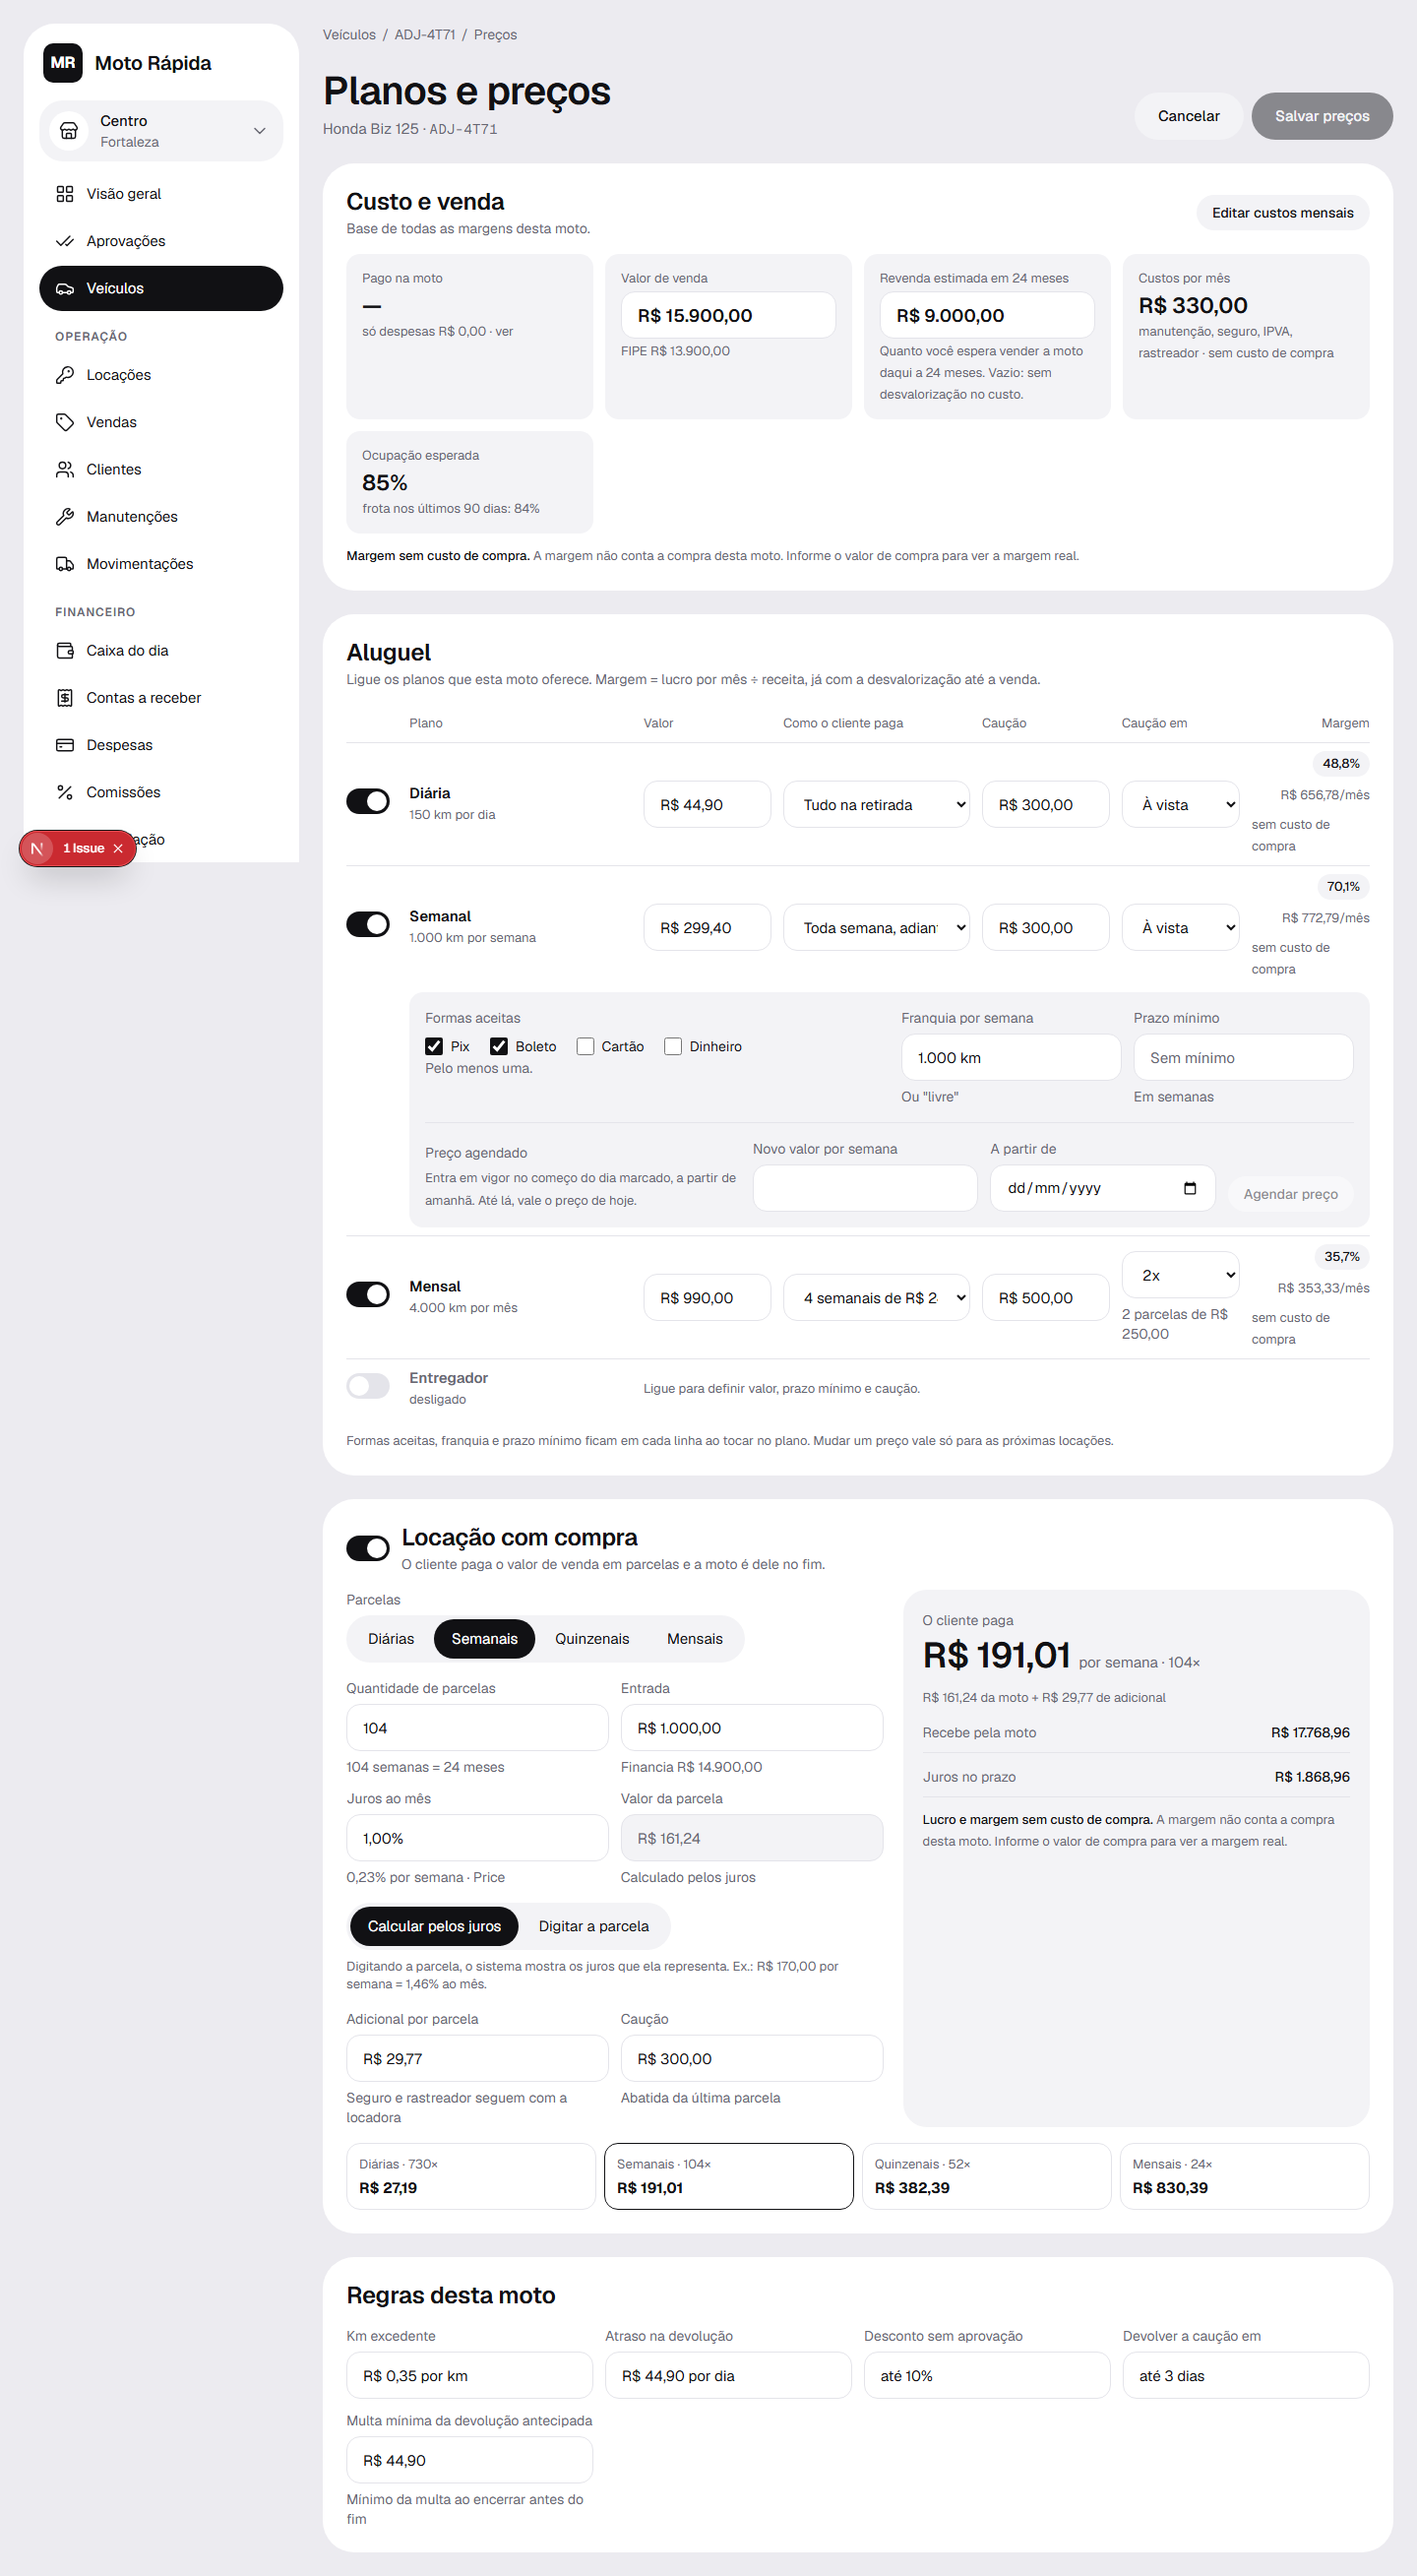
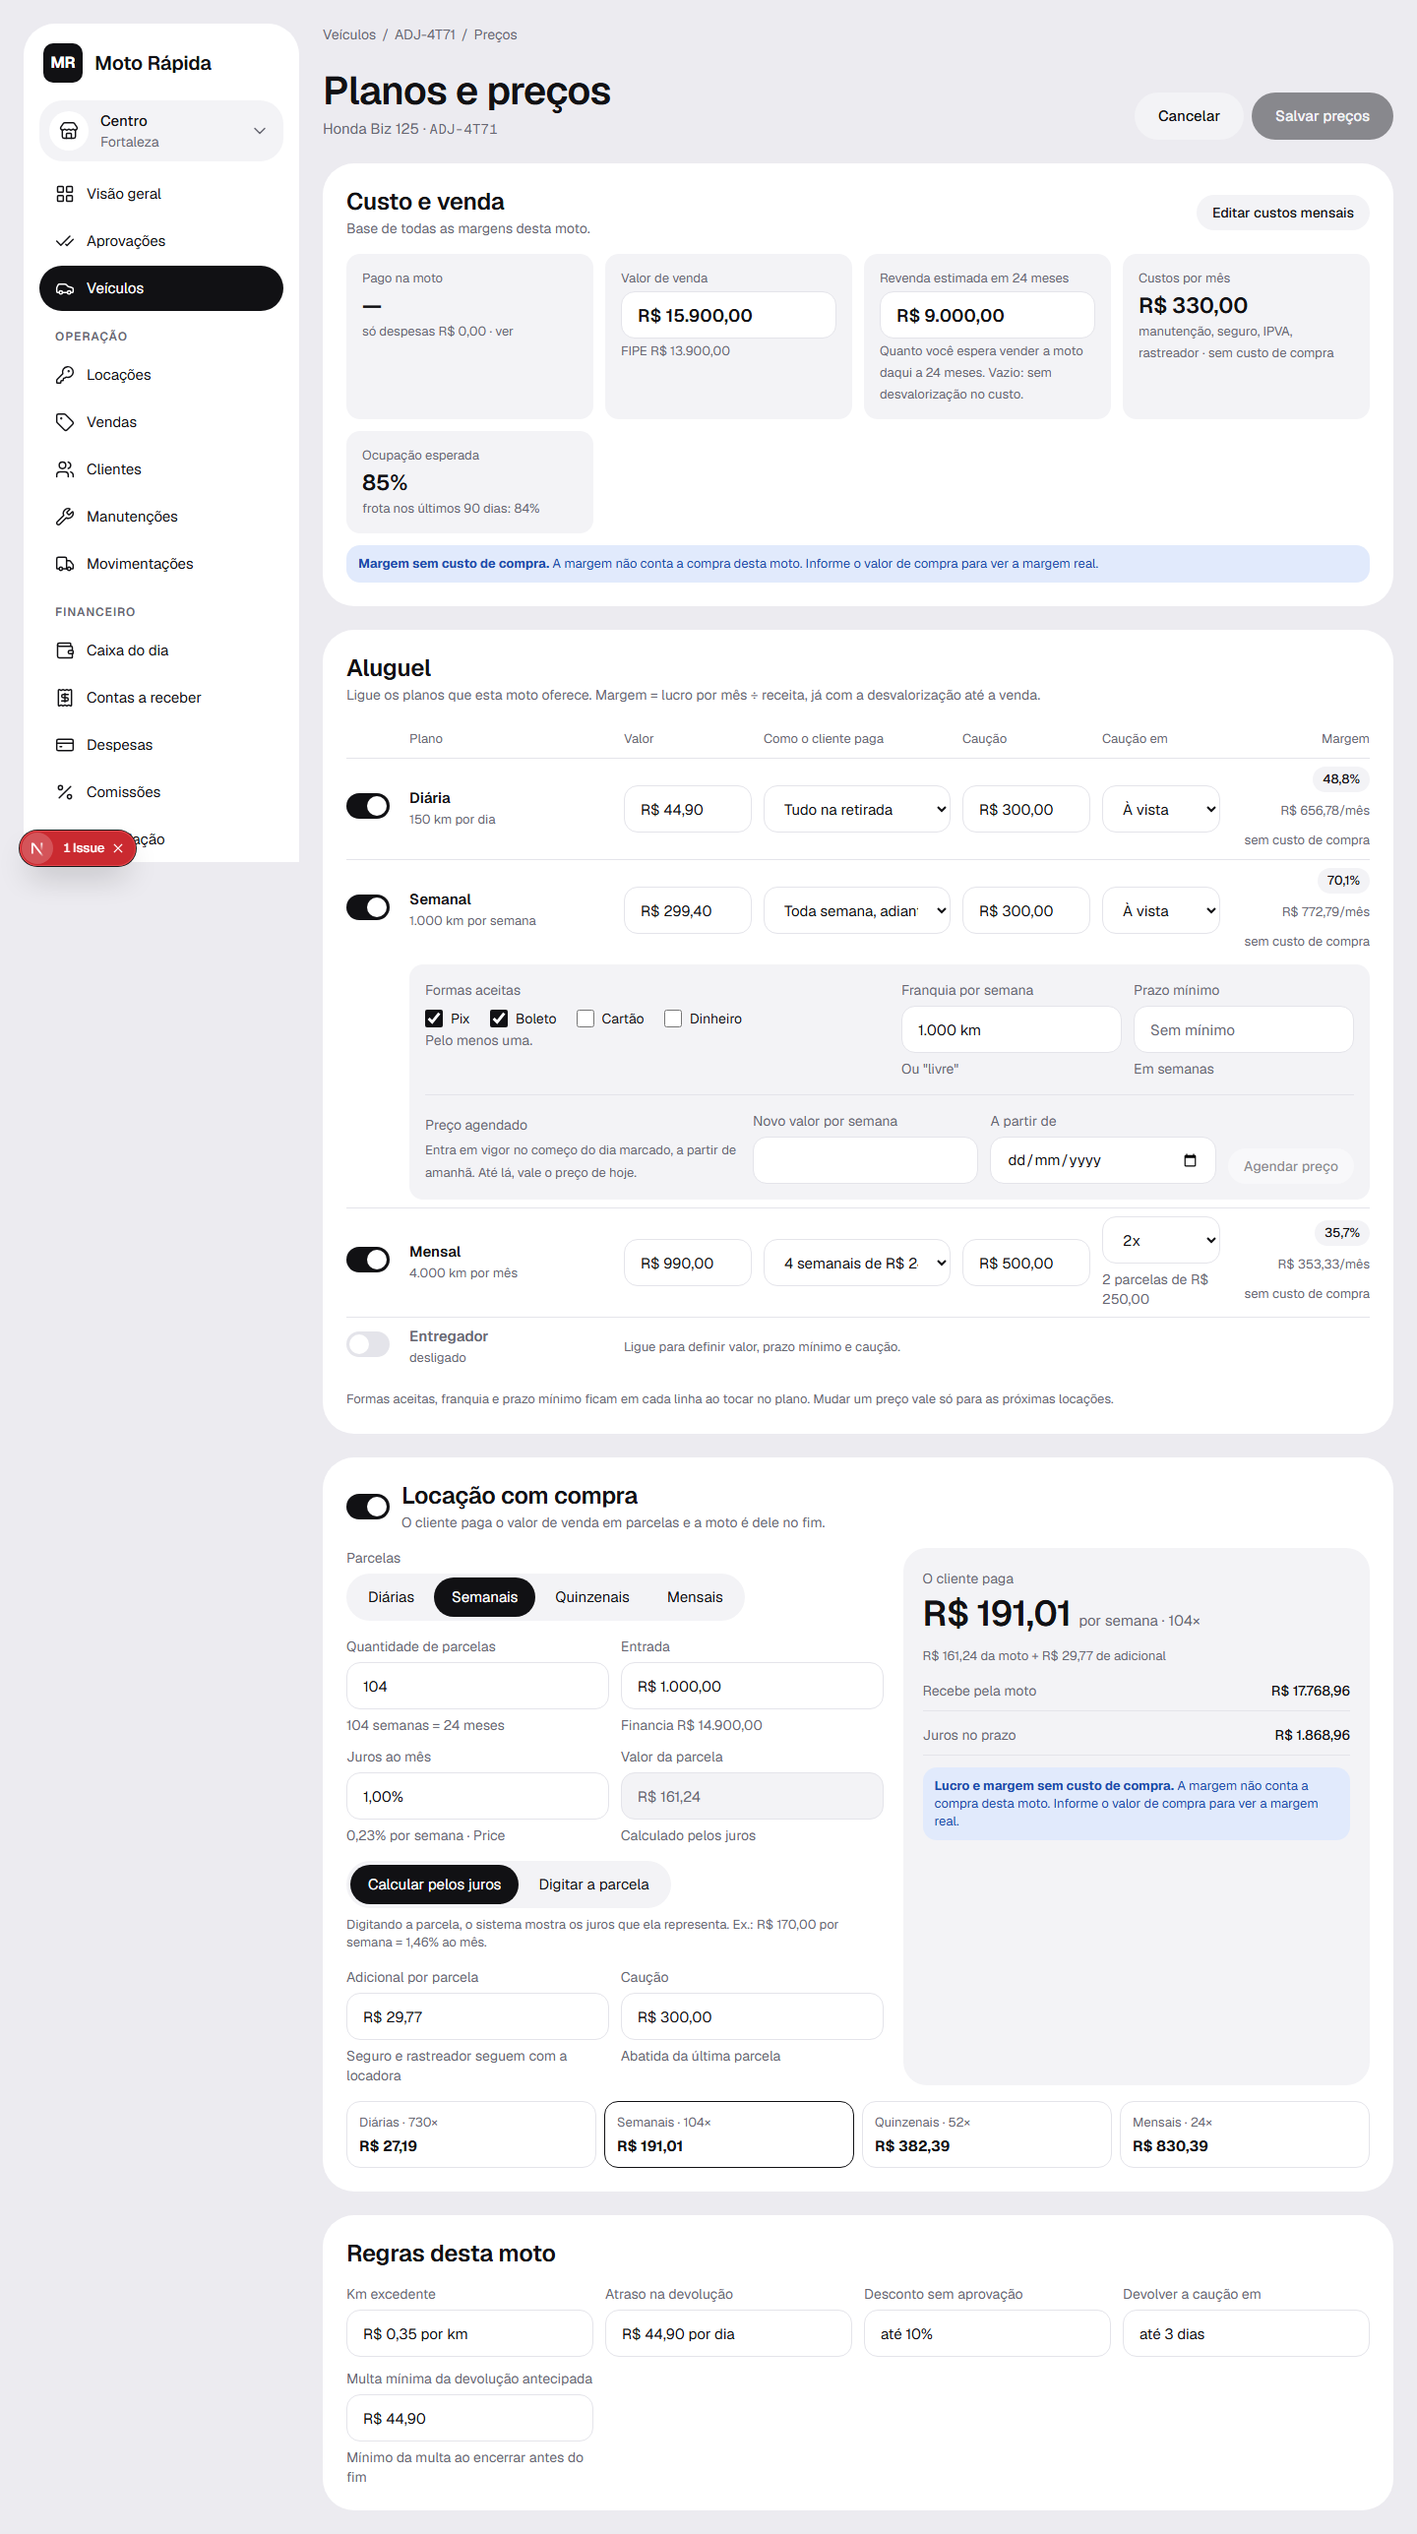
fix(veiculos): dicas no Aviso info e marca da margem numa linha [T-505] [VEI-13]
Ajustes do design-system no #639.

diff --git a/frontend/src/components/precos-veiculo/PrecosDoVeiculo.test.tsx b/frontend/src/components/precos-veiculo/PrecosDoVeiculo.test.tsx
@@ -155,7 +155,11 @@ describe("tela de preços do veículo", () => {
     expect(tb).toContain("sem custo de compra");
     // Abaixo da mínima de 80%, mas sem a faixa amarela: a API manda `abaixo_da_minima: false` e a marca deixa o tom neutro.
     expect(hb).not.toContain("wl-badge--warning");
+    // A dica vem no Aviso info do design system; a marca da coluna Margem não quebra linha.
+    expect(hb).toMatch(/class="wl-note wl-note--info"[^>]*>(<[^>]+>)*Margem sem custo de compra\./);
+    expect(hb).toMatch(/whitespace-nowrap[^"]*"[^>]*>sem custo de compra</);
     expect(texto(pagina(PRECOS_POP))).not.toContain("sem custo de compra");
+    expect(pagina(PRECOS_POP)).not.toContain("wl-note--info");
   });
 
   it("vei_16_sem_valor_de_compra_sem_lucro_nem_margem_sobre_o_pago", () => {
@@ -164,12 +168,14 @@ describe("tela de preços do veículo", () => {
     expect(tb).toContain("R$ 17.768,96");
     expect(tb).not.toContain("Margem sobre o pago");
     expect(tb).not.toContain("R$ 3.968,96");
-    expect(tb).toContain("Lucro e margem sem custo de compra.");
+    expect(pagina(PRECOS_BIZ_SEM_COMPRA)).toMatch(/class="wl-note wl-note--info"[^>]*>(<[^>]+>)*Lucro e margem sem custo de compra\./);
   });
 
   it("vei_13_revenda_acima_do_pago_mostra_a_dica", () => {
     const custos = { ...(PRECOS_POP.custos as NonNullable<Precos["custos"]>), revenda_acima_do_pago: true };
-    expect(texto(pagina({ ...PRECOS_POP, custos }))).toContain("A revenda passa do que foi pago: sem desvalorização no custo.");
+    const hr = pagina({ ...PRECOS_POP, custos });
+    expect(hr).toMatch(/class="wl-note wl-note--info"[^>]*>A revenda passa do que foi pago: sem desvalorização no custo\./);
+    expect(texto(hr)).toContain("Quanto você espera vender a moto daqui a 24 meses.");
     expect(t).not.toContain("A revenda passa do que foi pago");
   });
 

diff --git a/frontend/src/components/precos-veiculo/PrecosDoVeiculo.tsx b/frontend/src/components/precos-veiculo/PrecosDoVeiculo.tsx
@@ -369,7 +369,7 @@ function Tela({ id, dados }: { id: number; dados: Precos }) {
                 }}
               />
               <span className={`text-[13px] ${erros["custos.revenda_estimada_centavos"] ? "text-critical-ink" : "text-ink-muted"}`}>
-                {erros["custos.revenda_estimada_centavos"] ?? (exibido.custos.revenda_acima_do_pago ? DICA_REVENDA_ACIMA_DO_PAGO : "Quanto você espera vender a moto daqui a 24 meses. Vazio: sem desvalorização no custo.")}
+                {erros["custos.revenda_estimada_centavos"] ?? "Quanto você espera vender a moto daqui a 24 meses. Vazio: sem desvalorização no custo."}
               </span>
             </label>
           )}
@@ -385,9 +385,16 @@ function Tela({ id, dados }: { id: number; dados: Precos }) {
           )}
         </div>
         {exibido.custos?.sem_custo_compra && (
-          <p className="mt-3 text-[13px] text-ink-muted" data-testid="dica-sem-custo-compra">
-            <b className="font-medium text-ink">Margem {MARCA_SEM_CUSTO_COMPRA}.</b> {DICA_SEM_CUSTO_COMPRA}
-          </p>
+          <div className="mt-3">
+            <Aviso tom="info">
+              <b>Margem {MARCA_SEM_CUSTO_COMPRA}.</b> {DICA_SEM_CUSTO_COMPRA}
+            </Aviso>
+          </div>
+        )}
+        {exibido.custos?.revenda_acima_do_pago && (
+          <div className="mt-3">
+            <Aviso tom="info">{DICA_REVENDA_ACIMA_DO_PAGO}</Aviso>
+          </div>
         )}
       </Panel>
 

diff --git a/frontend/src/components/precos-veiculo/PlanosDeAluguel.tsx b/frontend/src/components/precos-veiculo/PlanosDeAluguel.tsx
@@ -35,7 +35,7 @@ export type AcoesDoPlano = {
   desfazerAgendado: (chave: string) => void;
 };
 
-const COLUNAS = "md:grid-cols-[52px_minmax(0,1.4fr)_130px_190px_130px_120px_120px]";
+const COLUNAS = "md:grid-cols-[52px_minmax(0,1.4fr)_130px_190px_130px_120px_140px]";
 
 function Campo({ rotulo, erro, dica, children, classe = "" }: { rotulo: string; erro?: string; dica?: string; children: React.ReactNode; classe?: string }) {
   const apoio = erro ?? dica;
@@ -195,7 +195,7 @@ function LinhaDoPlano({ p, atual, erros, somenteLeitura, acoes, aberto, aoAbrir,
                 </StatusBadge>
               )}
               {margem.sem_custo_compra && (
-                <span className="text-ink-muted md:order-3" title={DICA_SEM_CUSTO_COMPRA}>
+                <span className="whitespace-nowrap text-ink-muted md:order-3" title={DICA_SEM_CUSTO_COMPRA}>
                   {MARCA_SEM_CUSTO_COMPRA}
                 </span>
               )}

diff --git a/frontend/src/components/precos-veiculo/LocacaoComCompra.tsx b/frontend/src/components/precos-veiculo/LocacaoComCompra.tsx
@@ -173,9 +173,11 @@ export function LocacaoComCompra({
               )}
               <Linha rotulo="Juros no prazo">{dinheiro(r.juros_no_prazo_centavos)}</Linha>
               {r.sem_custo_compra && (
-                <p className="mt-2 text-[13px] text-ink-muted">
-                  <b className="font-medium text-ink">Lucro e margem {MARCA_SEM_CUSTO_COMPRA}.</b> {DICA_SEM_CUSTO_COMPRA}
-                </p>
+                <div className="mt-2">
+                  <Aviso tom="info">
+                    <b>Lucro e margem {MARCA_SEM_CUSTO_COMPRA}.</b> {DICA_SEM_CUSTO_COMPRA}
+                  </Aviso>
+                </div>
               )}
             </>
           ) : (
